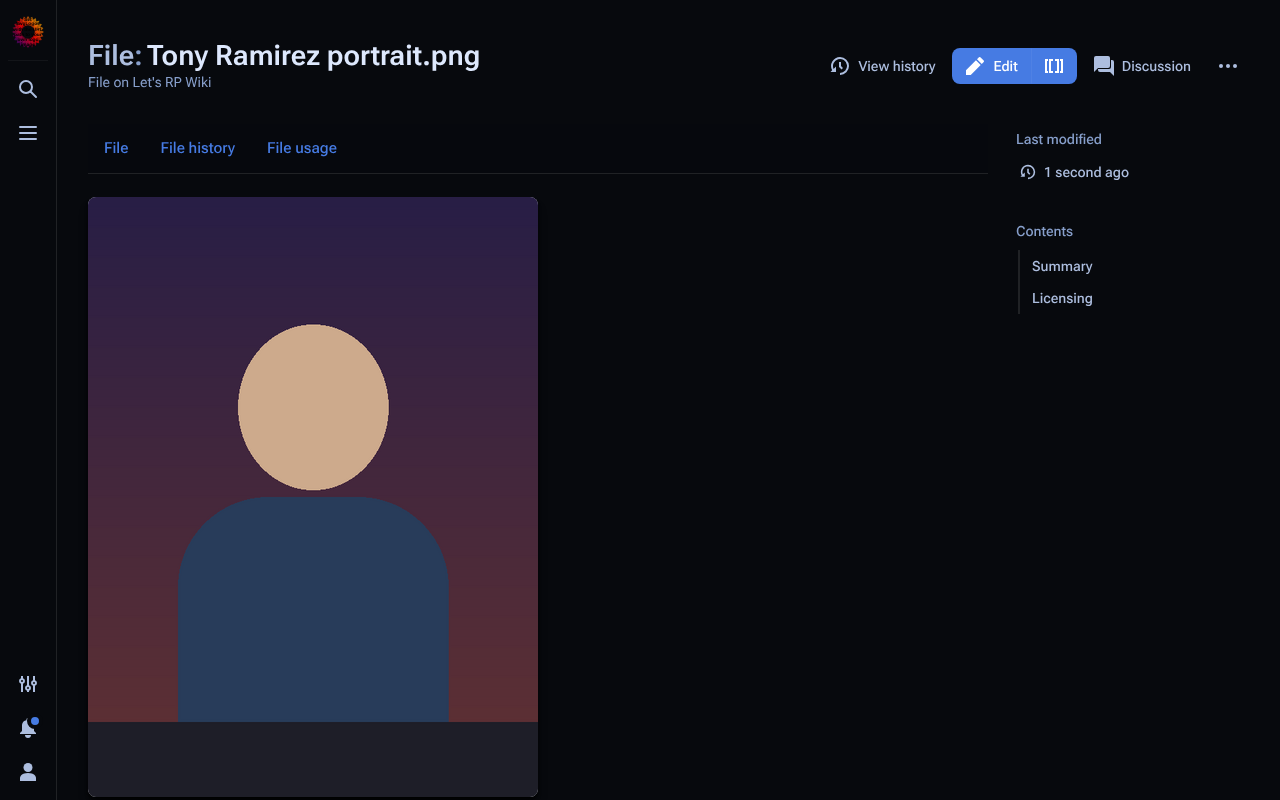
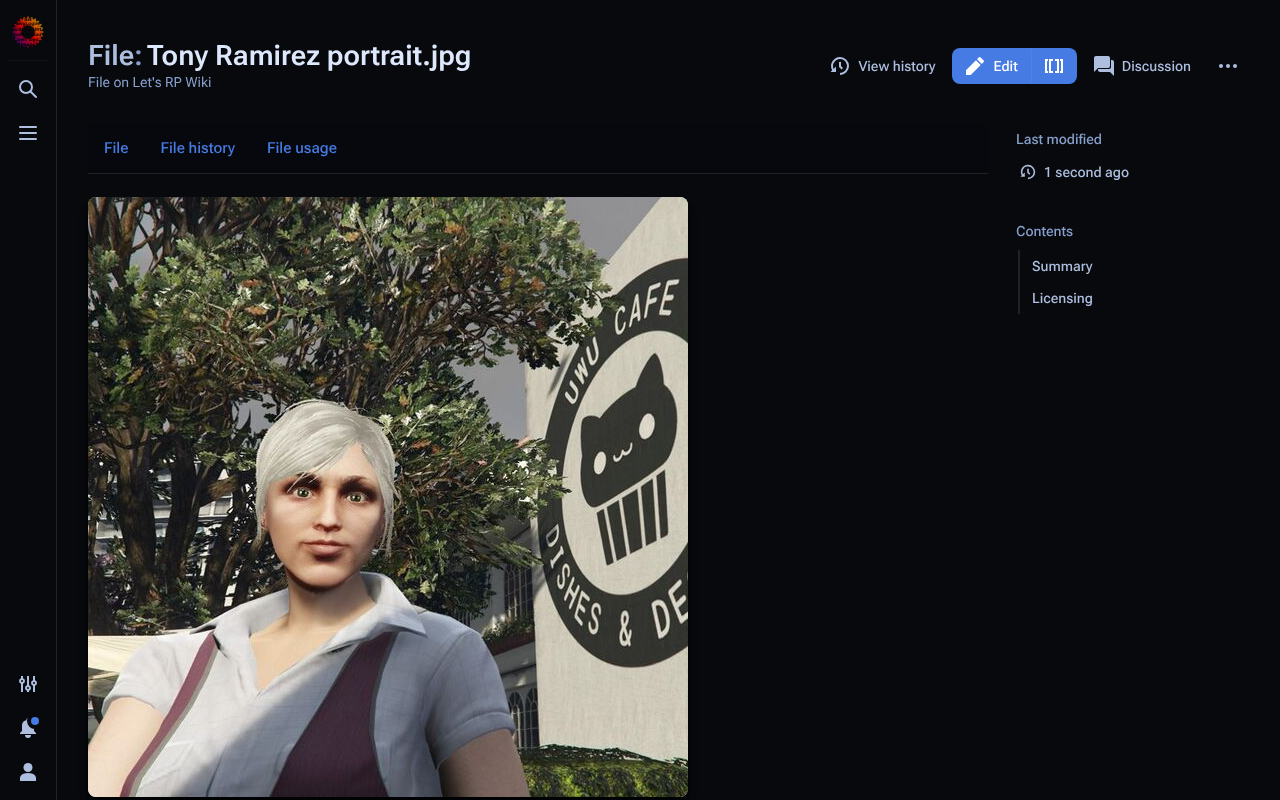
MediaWiki guides: real example portrait
Example portrait.jpg (and the upload walkthrough screenshots) now use a real
in-game character picture instead of the drawn stand-in.

Claude-Session: https://claude.ai/code/session_01LwC4bYtWdkebTujzZN84ZZ

diff --git a/mediawiki/guides.py b/mediawiki/guides.py
@@ -507,10 +507,10 @@ Links should fit in with the rest of the sentence. You can do this in a few ways
 === Images ===
 * Show a picture by linking to its file, like this: <nowiki>[[File:The file's name.png]]</nowiki>. You must use the exact file name, including its spelling, capitals, spaces and ending (.png, .jpg...).
 * You'll usually want to set the size and position of the picture:
-** Adding <code>|thumb|left</code>, <code>|thumb|right</code> or <code>|thumb|center</code> after the file name puts it on that side of the page, in a frame, e.g. <nowiki>[[File:Example portrait.png|thumb|left]]</nowiki>.
-** Adding a width like <code>|200px</code> in the same place sets how wide it is. E.g. <nowiki>[[File:Example portrait.png|thumb|center|200px|A character portrait]]</nowiki> adds a centred picture 200 pixels wide, with a caption:
+** Adding <code>|thumb|left</code>, <code>|thumb|right</code> or <code>|thumb|center</code> after the file name puts it on that side of the page, in a frame, e.g. <nowiki>[[File:Example portrait.jpg|thumb|left]]</nowiki>.
+** Adding a width like <code>|200px</code> in the same place sets how wide it is. E.g. <nowiki>[[File:Example portrait.jpg|thumb|center|200px|A character portrait]]</nowiki> adds a centred picture 200 pixels wide, with a caption:
 
-[[File:Example portrait.png|thumb|center|200px|A character portrait]]
+[[File:Example portrait.jpg|thumb|center|200px|A character portrait]]
 
 * You can also add pictures the same way as in the visual mode. See [[Help:Editing/VisualEditor basics#Images|this guide]] for more details.
 
@@ -581,7 +581,7 @@ This page is a '''cheat sheet''' to help you learn the basics of editing and for
           "<code><nowiki>[https://www.example.org Text to show]</nowiki></code><br /><code><nowiki>[https://www.example.org]</nowiki></code><br /><code><nowiki>https://www.example.org</nowiki></code>",
           "[https://www.example.org Text to show]<br />[https://www.example.org]<br />https://www.example.org", 'to other websites') \
     + row('Redirect to another page', "<code><nowiki>#REDIRECT [[Target page]]</nowiki></code>", "''Sends readers straight to Target page''", 'the only thing on the page') \
-    + row('Picture', "<code><nowiki>[[File:Example portrait.png|thumb|right|200px|Caption]]</nowiki></code>", "''A 200-pixel picture on the right, with a caption''") \
+    + row('Picture', "<code><nowiki>[[File:Example portrait.jpg|thumb|right|200px|Caption]]</nowiki></code>", "''A 200-pixel picture on the right, with a caption''") \
     + row('Template', "<code><nowiki>{{Infobox character}}</nowiki></code>", "''Adds the template; see [[Help:Templates]]''") \
     + row('Section headings',
           "<code><nowiki>== Level 1 ==</nowiki></code><br /><code><nowiki>=== Level 2 ===</nowiki></code><br /><code><nowiki>==== Level 3 ====</nowiki></code><br /><code><nowiki>===== Level 4 =====</nowiki></code>",
@@ -706,7 +706,7 @@ Click '''Choose file''' and pick the picture from your computer.
 
 {img('Adding images - choose file.png', 'Choosing the file')}
 
-Give the file a clear '''name''' in ''Destination filename''. Use what the picture shows, like ''Tony Ramirez portrait.png'' or ''Harbor Bank Heist getaway.png'', not the name your computer gave it. Add a short '''summary''' of what it shows and where it's from (whose stream, and when).
+Give the file a clear '''name''' in ''Destination filename''. Use what the picture shows, like ''Tony Ramirez portrait.jpg'' or ''Harbor Bank Heist getaway.png'', not the name your computer gave it. Add a short '''summary''' of what it shows and where it's from (whose stream, and when).
 
 {img('Adding images - file details.png', 'The file name and summary')}
 
